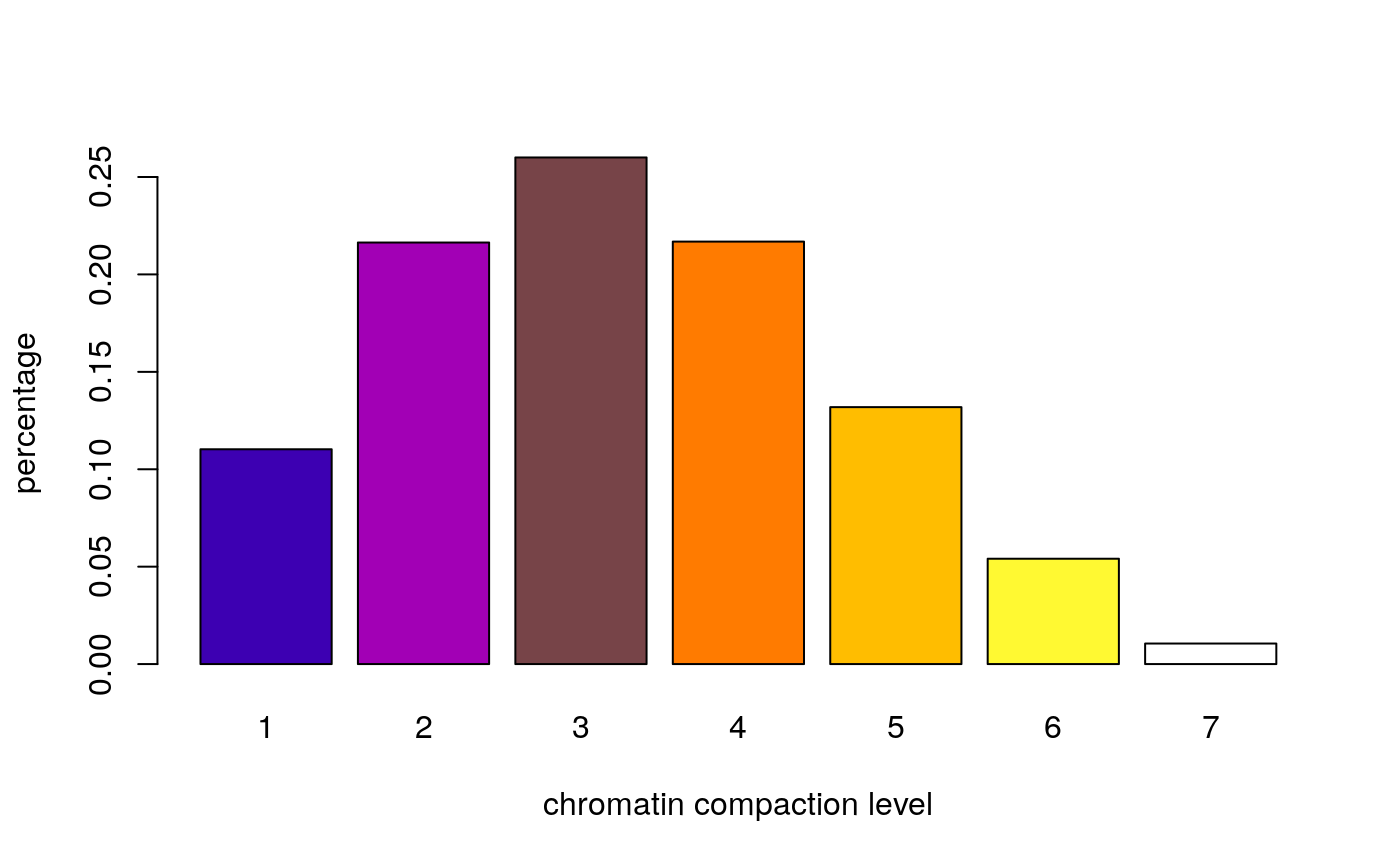
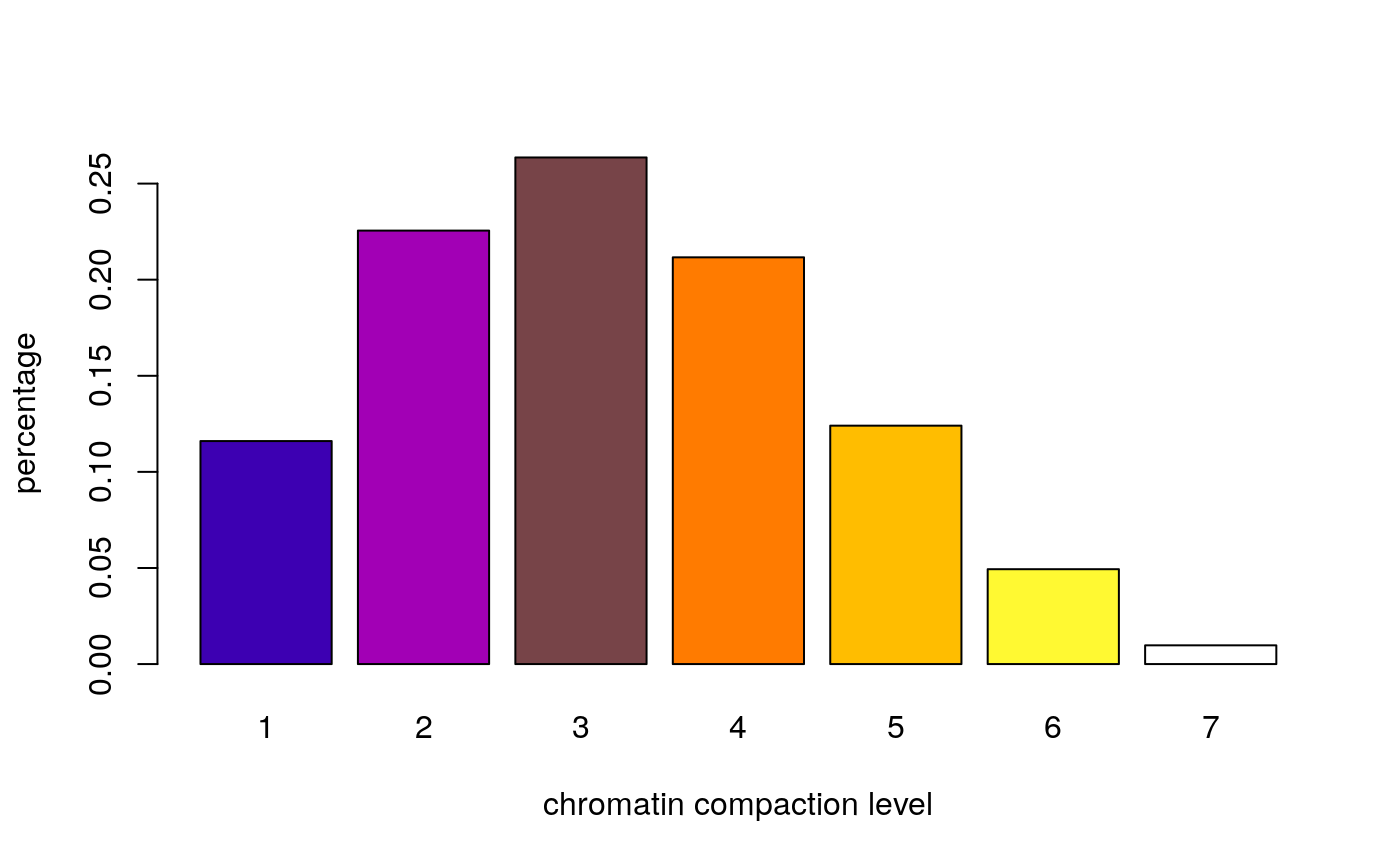
spelling
Former-commit-id: 2530ebe478216f651b49d9ab3ac12a256dac8cd1

diff --git a/docs/articles/largevignettes/workflow.html b/docs/articles/largevignettes/workflow.html
@@ -148,19 +148,19 @@ cc1&lt;-<span class="kw"><a href="../../reference/colors.in.classes.html">colors
 <p><img src="workflow_files/figure-html/unnamed-chunk-5-1.png" width="700"></p>
 <pre><code>## Wilcoxon rank-sum test DAPI vs. channel 1: p-value &lt; 5e-09
 ## Wilcoxon rank-sum test DAPI vs. channel 2: p-value &lt; 5e-09
-## Wilcoxon rank-sum test channel 1 vs. channel 2: p-value = 0.00015297
+## Wilcoxon rank-sum test channel 1 vs. channel 2: p-value = 0.0001366
 cc2&lt;-colors.in.classes(classes,red,green,mask,7,type="intensity",plot=TRUE,col1="red",col2="green",thresh1=0.05,thresh2=0.05,test="Wilcoxon",ylim=c(0,.5),xlab="chromatin compaction levels",ylab="percentage")</code></pre>
 <p><img src="workflow_files/figure-html/unnamed-chunk-5-2.png" width="700"></p>
 <pre><code>## Wilcoxon rank-sum test DAPI vs. channel 1: p-value &lt; 5e-09
 ## Wilcoxon rank-sum test DAPI vs. channel 2: p-value &lt; 5e-09
-## Wilcoxon rank-sum test channel 1 vs. channel 2: p-value = 0.02559821</code></pre>
+## Wilcoxon rank-sum test channel 1 vs. channel 2: p-value = 0.03799133</code></pre>
 <div class="sourceCode"><pre class="sourceCode r"><code class="sourceCode r">spots&lt;-<span class="kw"><a href="../../reference/spots.combined.html">spots.combined</a></span>(<span class="dt">red=</span>red,<span class="dt">green=</span>green,<span class="dt">mask=</span>mask,<span class="dt">size=</span><span class="kw">c</span>(x,y,z),<span class="dt">full.voxel=</span><span class="ot">FALSE</span>,<span class="dt">thresh.offset=</span><span class="fl">0.05</span>)
 ## 0o0o.xXx.o0o.xXx.o0o.xXx.o0o.xXx.o0o.xXx.o0o.xXx.o0o.xXx.o0o.xXx.o0o.xXx.o0o.xXx.o0o.xXx.o0o.xXx.o0o.xXx.o0o.xXx.o0o.xXx.o0o.xXx.o0o.xXx.o0o.xXx.o0o.xXx.o0o.xXx.o0o.xXx.o0o.xXx.o0o.xXx.o0o.xXx.o0o.xXx.o0o.xXx.o0o.xXx.o0o.xXx.o0o.xXx.o0o.xXx.o0o.xXx.o0o.xXx.o0o.xXx.o0o.xXx.o0o.xXx.o0o.xXx.o0o.xXx.o0o.xXx.o0o.xXx.o0o.xXx.o0o.xXx.o0o.xXx.o0o.xXx.o0o.xXx.o0o.xXx.o0o.xXx.o0o.xXx.o0o.xXx.o0o.xXx.o0o.xXx.o0o.xXx.o0o.xXx.o0o.xXx.o0o.xXx.o0o.xXx.o0o.xXx.o0o.xXx.o0o.xXx.o0o.xXx.o0o.xXx.o0o.xXx.o0o.xXx.o0o.xXx.o0o.xXx.o0o.xXx.0o0o.xXx.o0o.xXx.o0o.xXx.o0o.xXx.o0o.xXx.o0o.xXx.o0o.xXx.o0o.xXx.o0o.xXx.o0o.xXx.o0o.xXx.o0o.xXx.o0o.xXx.o0o.xXx.o0o.xXx.o0o.xXx.o</code></pre></div>
 <div class="sourceCode"><pre class="sourceCode r"><code class="sourceCode r">cc&lt;-<span class="kw"><a href="../../reference/colors.in.classes.html">colors.in.classes</a></span>(classes,spots<span class="op">$</span>red,spots<span class="op">$</span>green,mask,<span class="dv">7</span>,<span class="dt">type=</span><span class="st">"i"</span>,<span class="dt">plot=</span><span class="ot">TRUE</span>,<span class="dt">col1=</span><span class="st">"red"</span>,<span class="dt">col2=</span><span class="st">"green"</span>,<span class="dt">test=</span><span class="st">"Wilcoxon"</span>,<span class="dt">ylim=</span><span class="kw">c</span>(<span class="dv">0</span>,.<span class="dv">8</span>),<span class="dt">xlab=</span><span class="st">"chromatin compaction levels"</span>,<span class="dt">ylab=</span><span class="st">"percentage"</span>)</code></pre></div>
 <p><img src="workflow_files/figure-html/unnamed-chunk-7-1.png" width="700"></p>
 <pre><code>## Wilcoxon rank-sum test DAPI vs. channel 1: p-value &lt; 5e-09
 ## Wilcoxon rank-sum test DAPI vs. channel 2: p-value &lt; 5e-09
-## Wilcoxon rank-sum test channel 1 vs. channel 2: p-value = 0.00057962</code></pre>
+## Wilcoxon rank-sum test channel 1 vs. channel 2: p-value = 0.00088183</code></pre>
 </div>
   </div>
 

diff --git a/docs/reference/find.spots.file.html b/docs/reference/find.spots.file.html
@@ -6,7 +6,7 @@
 <meta http-equiv="X-UA-Compatible" content="IE=edge">
 <meta name="viewport" content="width=device-width, initial-scale=1.0">
 
-<title>Detects spotsfor one file — find.spots.file • nucim</title>
+<title>Detects spots for one file — find.spots.file • nucim</title>
 
 <!-- jquery -->
 <script src="https://code.jquery.com/jquery-3.1.0.min.js" integrity="sha384-nrOSfDHtoPMzJHjVTdCopGqIqeYETSXhZDFyniQ8ZHcVy08QesyHcnOUpMpqnmWq" crossorigin="anonymous"></script>
@@ -30,9 +30,9 @@
 
 
 
-<meta property="og:title" content="Detects spotsfor one file — find.spots.file" />
+<meta property="og:title" content="Detects spots for one file — find.spots.file" />
 
-<meta property="og:description" content="Detects spotsfor one file" />
+<meta property="og:description" content="Detects spots for one file" />
 <meta name="twitter:card" content="summary" />
 
 
@@ -109,14 +109,14 @@
 <div class="row">
   <div class="col-md-9 contents">
     <div class="page-header">
-    <h1>Detects spotsfor one file</h1>
+    <h1>Detects spots for one file</h1>
     <small class="dont-index">Source: <a href='https://github.com/bioimaginggroup/nucim/blob/master/R/find_spots.R'><code>R/find_spots.R</code></a></small>
     <div class="hidden name"><code>find.spots.file.Rd</code></div>
     </div>
 
     <div class="ref-description">
     
-    <p>Detects spotsfor one file</p>
+    <p>Detects spots for one file</p>
     
     </div>
 

diff --git a/docs/reference/splitchannels.html b/docs/reference/splitchannels.html
@@ -33,7 +33,7 @@
 <meta property="og:title" content="Split RGB images into channels and pixel size information — splitchannels" />
 
 <meta property="og:description" content="These functions are provided for compatibility with older version of
-the yourPackageName package.  They may eventually be completely
+the nucim package.  They may eventually be completely
 removed." />
 <meta name="twitter:card" content="summary" />
 
@@ -119,7 +119,7 @@ removed." />
     <div class="ref-description">
     
     <p>These functions are provided for compatibility with older version of
-the yourPackageName package.  They may eventually be completely
+the nucim package.  They may eventually be completely
 removed.</p>
     
     </div>

diff --git a/docs/reference/splitchannels.folder.html b/docs/reference/splitchannels.folder.html
@@ -146,7 +146,7 @@
     
     <h2 class="hasAnchor" id="value"><a class="anchor" href="#value"></a>Value</h2>
 
-    <p>Nothing, folders red, green, blue and XYZmic include seperate channels and pixel size information</p>
+    <p>Nothing, folders red, green, blue and XYZmic include separate channels and pixel size information</p>
     
 
     <h2 class="hasAnchor" id="examples"><a class="anchor" href="#examples"></a>Examples</h2>

diff --git a/docs/reference/dapimask.file.html b/docs/reference/dapimask.file.html
@@ -140,7 +140,7 @@
     </tr>
     <tr>
       <th>size</th>
-      <td><p>real size of image (in microns), if NULL (dafault), look in folder XYZmic</p></td>
+      <td><p>real size of image (in microns), if NULL (default), look in folder XYZmic</p></td>
     </tr>
     <tr>
       <th>silent</th>

diff --git a/docs/reference/index.html b/docs/reference/index.html
@@ -309,7 +309,7 @@
         <td>
           <p><code><a href="find.spots.file.html">find.spots.file()</a></code> </p>
         </td>
-        <td><p>Detects spotsfor one file</p></td>
+        <td><p>Detects spots for one file</p></td>
       </tr><tr>
         
         <td>

diff --git a/docs/reference/spots.combined.file.html b/docs/reference/spots.combined.file.html
@@ -146,7 +146,7 @@
     </tr>
     <tr>
       <th>thresh.offset</th>
-      <td><p>Thresh offest used in EBImage::thresh()</p></td>
+      <td><p>Thresh offset used in EBImage::thresh()</p></td>
     </tr>
     <tr>
       <th>min.sum.intensity</th>

diff --git a/docs/reference/spots.combined.folder.html b/docs/reference/spots.combined.folder.html
@@ -142,7 +142,7 @@
     </tr>
     <tr>
       <th>thresh.offset</th>
-      <td><p>Thresh offest used in EBImage::thresh()</p></td>
+      <td><p>Thresh offset used in EBImage::thresh()</p></td>
     </tr>
     <tr>
       <th>min.sum.intensity</th>

diff --git a/docs/reference/spots.combined.html b/docs/reference/spots.combined.html
@@ -149,7 +149,7 @@
     </tr>
     <tr>
       <th>thresh.offset</th>
-      <td><p>Thresh offest used in EBImage::thresh()</p></td>
+      <td><p>Thresh offset used in EBImage::thresh()</p></td>
     </tr>
     <tr>
       <th>min.sum.intensity</th>

diff --git a/docs/reference/compute.distance2border.html b/docs/reference/compute.distance2border.html
@@ -148,7 +148,7 @@
     </tr>
     <tr>
       <th>cores</th>
-      <td><p>numer of parallel cores used</p></td>
+      <td><p>number of parallel cores which can be used</p></td>
     </tr>
     </table>
     
